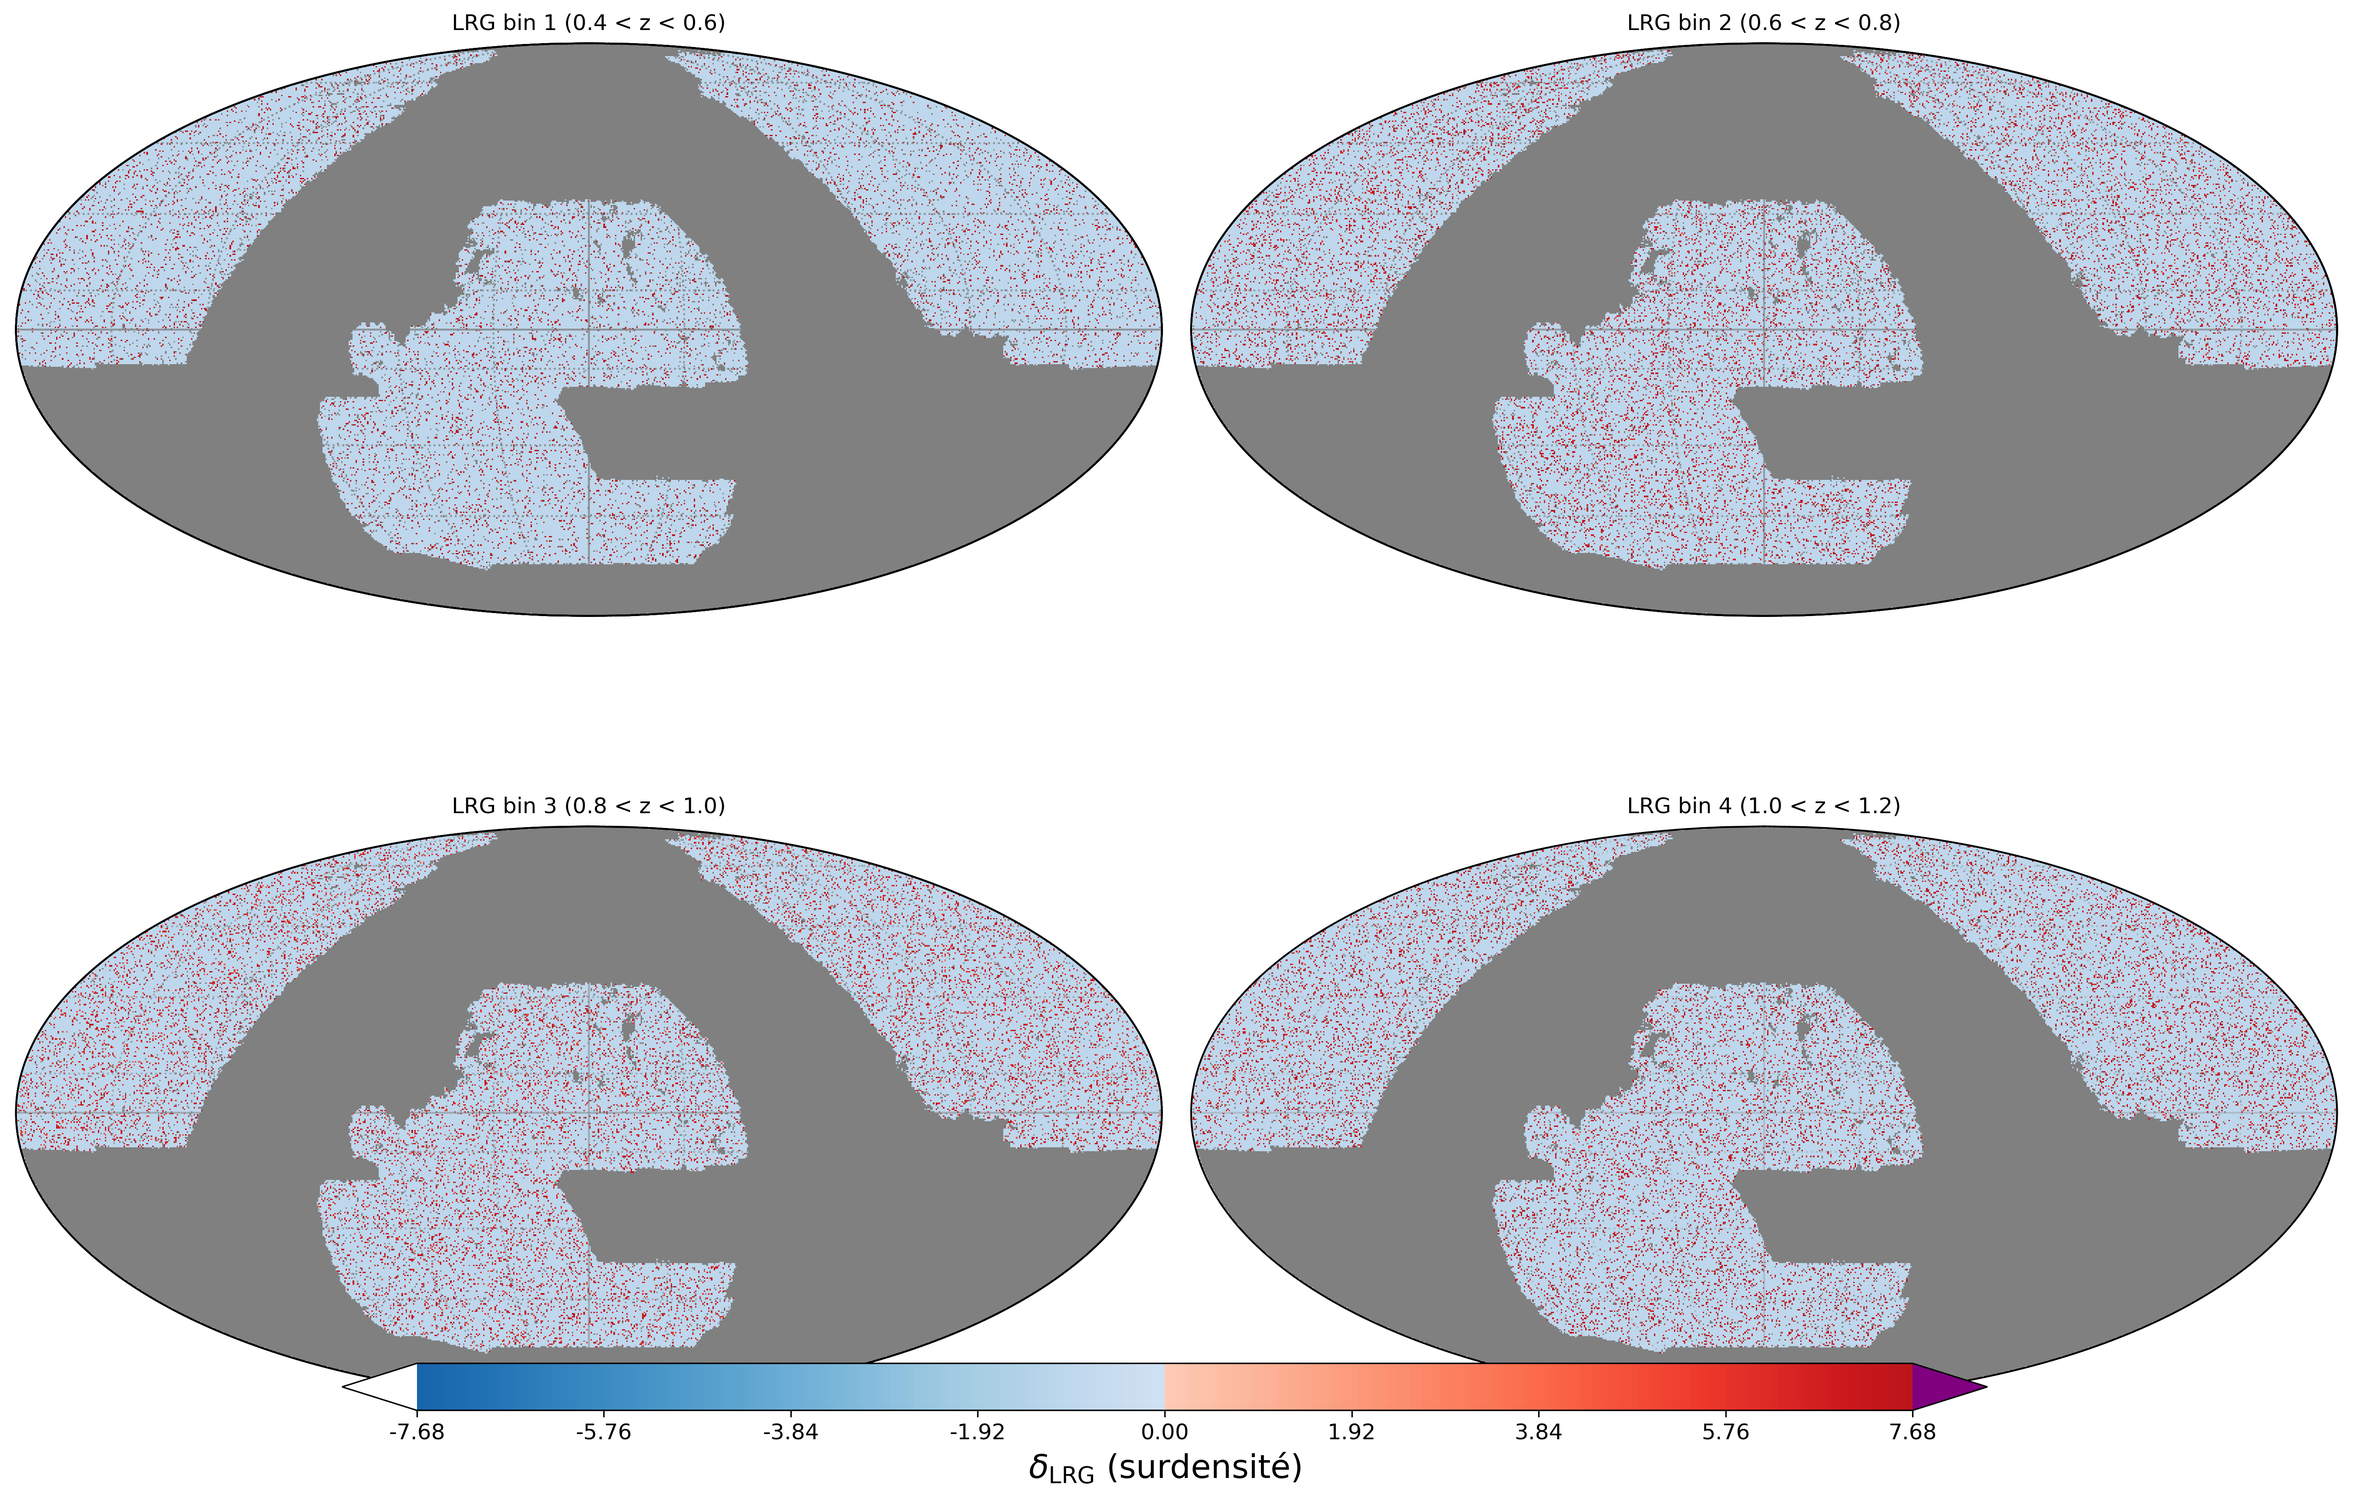
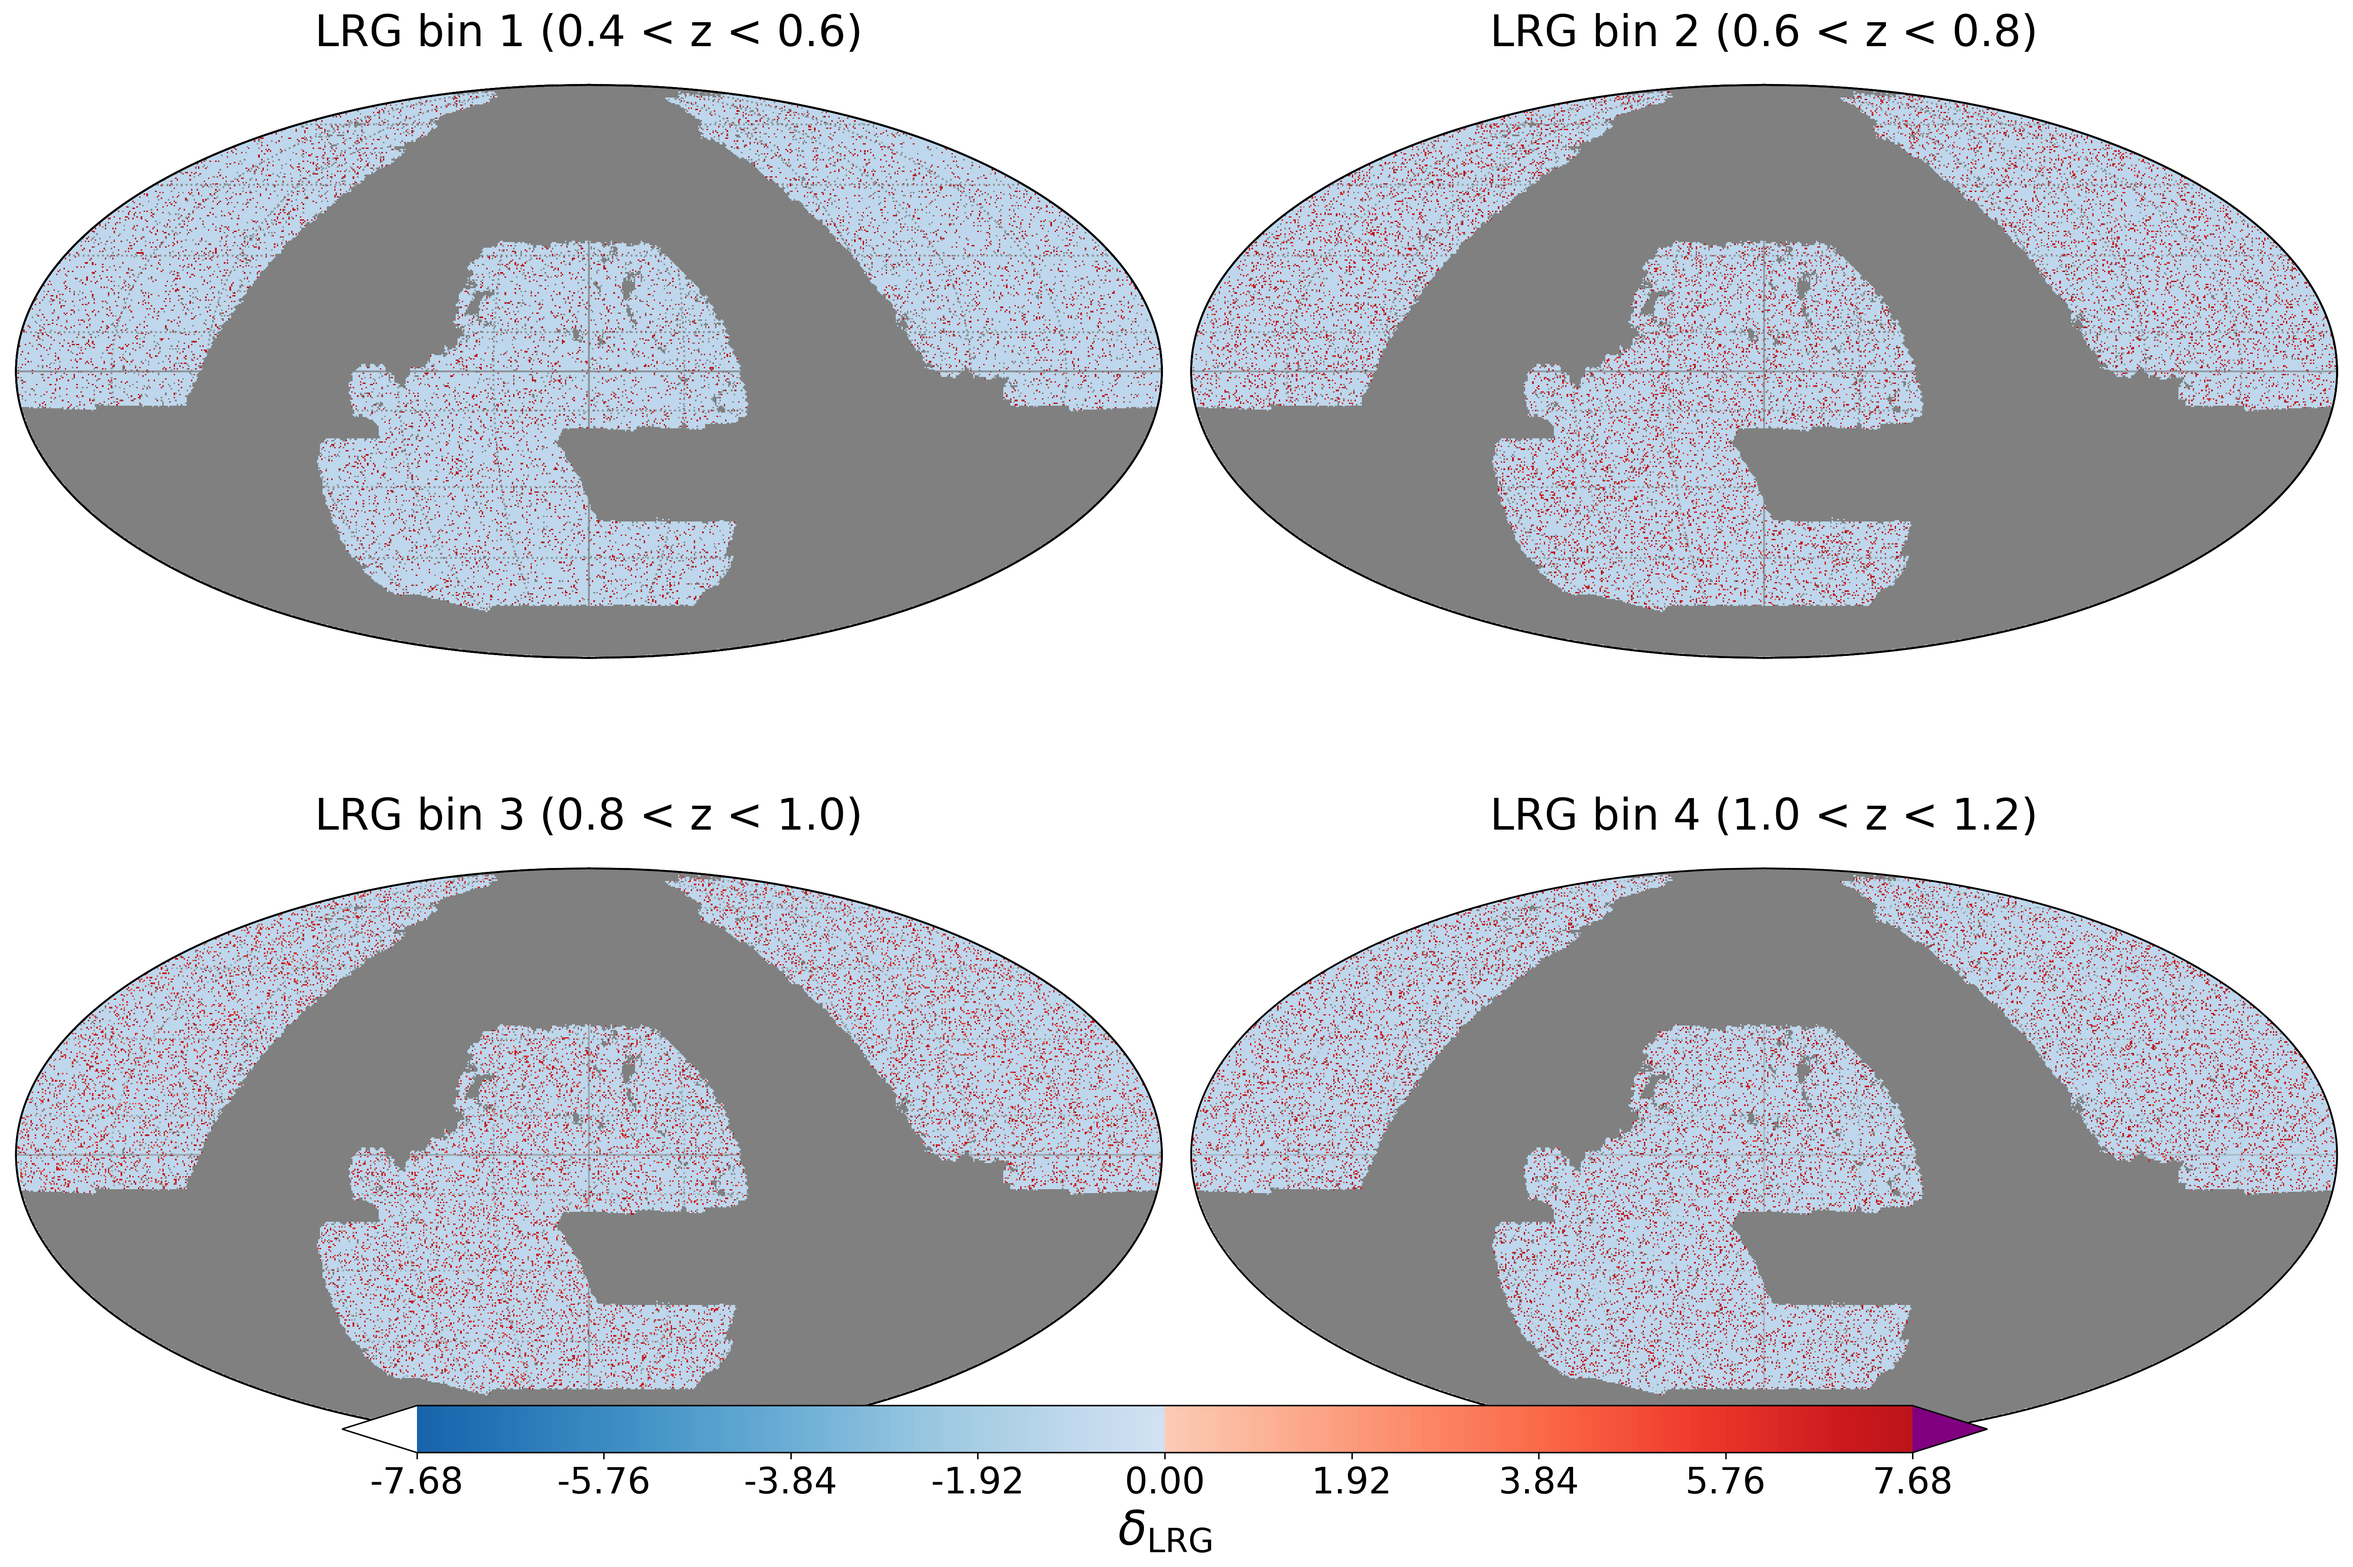
amélioration des plots

diff --git a/maps/plot_lrg_maps.py b/maps/plot_lrg_maps.py
@@ -76,6 +76,8 @@ for i, (m, pos, title) in enumerate(zip(lrg_maps, positions, titles)):
         rot=(0, 0, 0)
     )
     
+    plt.gca().set_title(title, fontsize=24, pad=20)
+
     hp.graticule(dpar=20, dmer=30, color='gray', alpha=0.3)
 
 # ------------------------------------------------------------------
@@ -93,8 +95,8 @@ cb = fig.colorbar(
 tick_positions = np.linspace(vmin, vmax, 9)
 cb.set_ticks(tick_positions)
 cb.set_ticklabels([f"{x:.2f}" for x in tick_positions])
-cb.set_label(r'$\delta_{\mathrm{LRG}}$ (surdensité)', fontsize=18)
-cb.ax.tick_params(labelsize=12)
+cb.set_label(r'$\delta_{\mathrm{LRG}}$', fontsize=26)
+cb.ax.tick_params(labelsize=20)
 
 # Améliorer l'espacement pour une meilleure lisibilité
 plt.subplots_adjust(wspace=0.05, hspace=0.1, top=0.92, bottom=0.1)

diff --git a/plot_chains.py b/plot_chains.py
@@ -46,6 +46,8 @@ def main():
     except Exception:
         pass
 
+    print("Available parameters:", param_names)
+
     make_triangle_plot(
         [chain],
         [legend_label],
